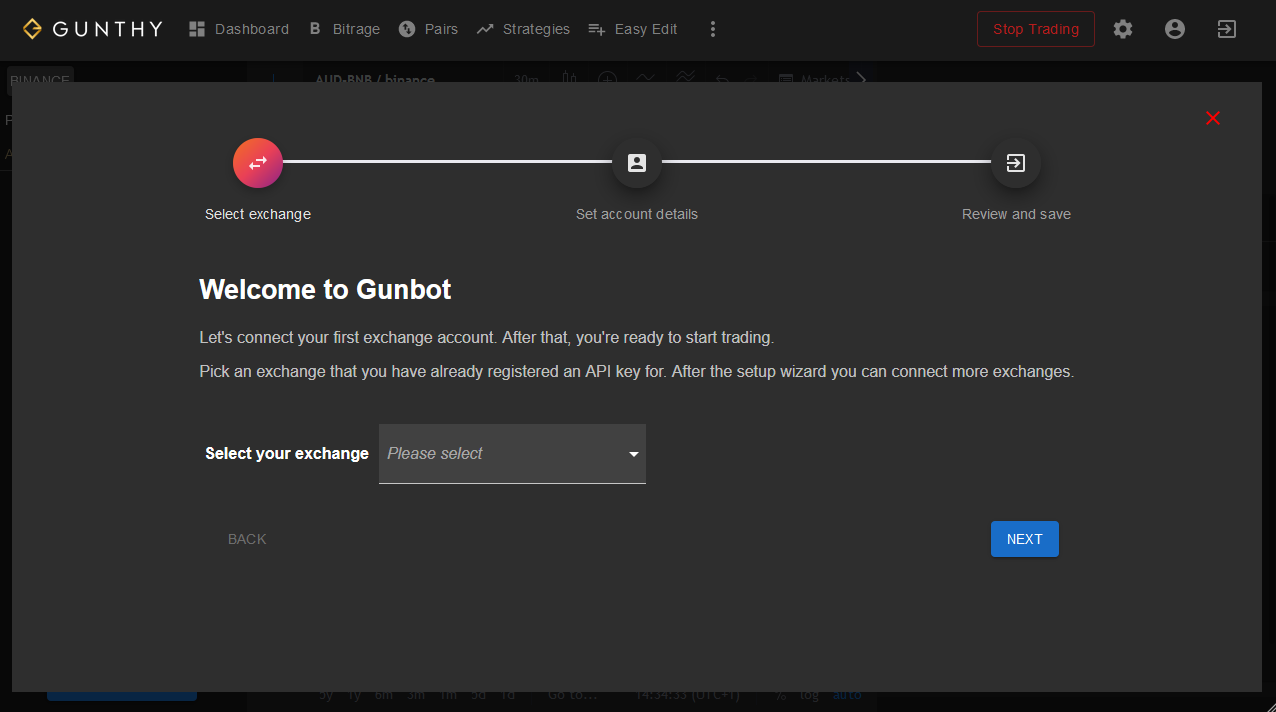
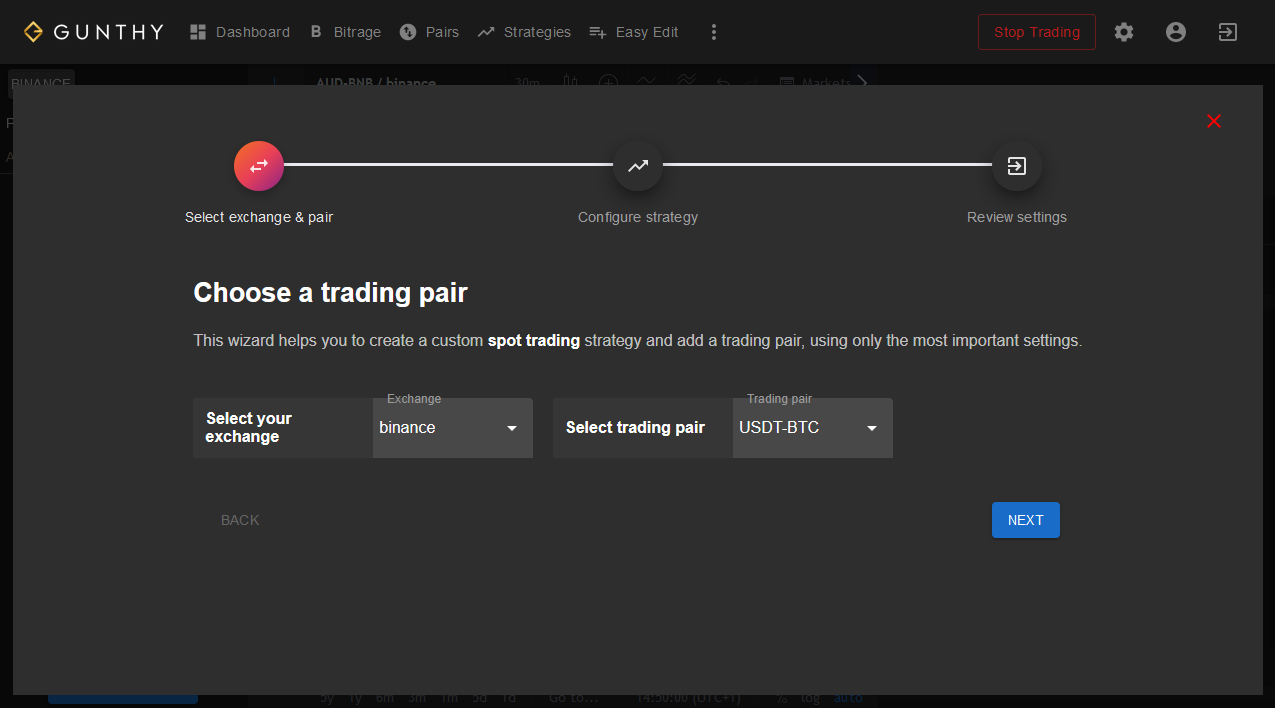
GitBook: [master] 2 pages and 4 assets modified

diff --git a/setup-and-general-settings/installation/quickstart-guide.md b/setup-and-general-settings/installation/quickstart-guide.md
@@ -39,7 +39,7 @@ On Mac systems, expect to need to explicitly allow running various libraries use
 
 Before you can start trading with the bot, the welcome wizard guides you through a few essential settings.
 
-![](../../.gitbook/assets/image%20%2813%29.png)
+![](../../.gitbook/assets/image%20%2825%29.png)
 
 When you first start the interface, it will show a window that guides you through the initial setup of:
 
@@ -56,7 +56,7 @@ After saving, you can enter the exchange details on the profile page.
 
 The easiest way to get started with strategies in Gunbot is using the [**Easy edit**](http://localhost:5000/easy-edit) wizard. This guides you through the steps of adding a trading pair and configuring a strategy to execute.
 
-![](../../.gitbook/assets/image%20%2825%29.png)
+![](../../.gitbook/assets/image%20%2839%29.png)
 
 To configure the strategy, you can pick any of the included presets or enter a new name to create your own strategy.
 

diff --git a/how-to-work-with-gunbot/editing-strategies-and-pairs/trading-pairs/README.md b/how-to-work-with-gunbot/editing-strategies-and-pairs/trading-pairs/README.md
@@ -98,7 +98,7 @@ Pairs on **Okex Futures** use the similar notation as on their site, with hyphen
 
 Overrides are pair specific settings, overruling the assigned strategy. Every strategy parameter can be used as an override.
 
-![](../../../.gitbook/assets/image%20%28105%29.png)
+![](../../../.gitbook/assets/image%20%2813%29.png)
 
 You can use this, for example, to set a different trading limit for a specific pair.
 
